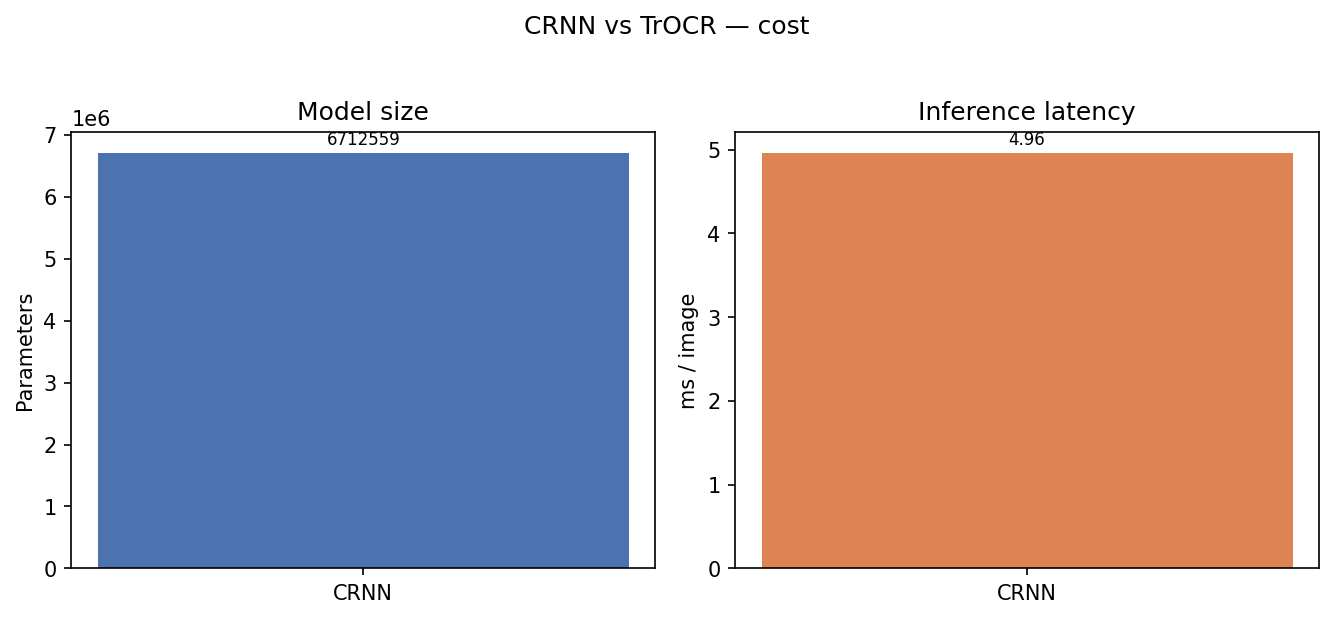
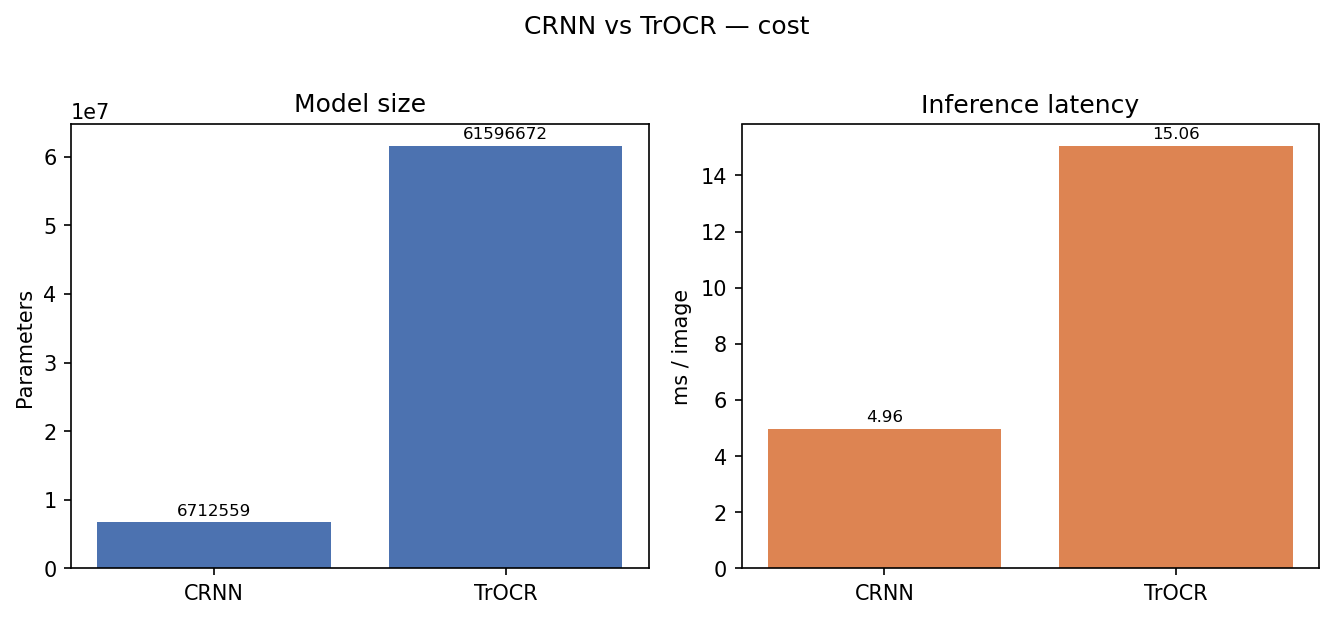
ml: add TrOCR comparison run results (fast config: trocr-small, 15k subset, 3 epochs)
CRNN vs TrOCR on the 46-class char test split: CRNN wins across the board
(98.67% vs 72.20% accuracy, 6.7M vs 61.6M params, 4.96 vs 15.06 ms/img) -
useful thesis evidence that a lightweight CNN-RNN beats a seq2seq
transformer for single-glyph classification. Notebook already reflects the
fast-config switch used for this run.

diff --git a/logs/comparison.md b/logs/comparison.md
@@ -4,15 +4,25 @@ Devanagari handwritten character recognition, evaluated on the held-out test spl
 
 ## Metrics
 
-| Metric | CRNN |
-|---|---|
-| Accuracy | 98.67% |
-| CER | 0.0003 |
-| WER | 0.0018 |
-| Parameters | 6,712,559 |
-| Inference latency | 4.963 ms/img |
-| Test samples | 9,200 |
+| Metric | CRNN | TrOCR |
+|---|---|---|
+| Accuracy | 98.67% | 72.20% |
+| CER | 0.0003 | 0.1761 |
+| WER | 0.0018 | 0.3706 |
+| Parameters | 6,712,559 | 61,596,672 |
+| Inference latency | 4.963 ms/img | 15.061 ms/img |
+| Test samples | 9,200 | 9,200 |
 
 ## Takeaways
 
-> _TrOCR metrics not yet available._ Run `python models/trocr/evaluate.py` after fine-tuning to populate `logs/trocr_eval.json`, then re-run this script.
+- **Accuracy:** CRNN wins (0.9867 vs 0.722).
+- **CER:** CRNN wins (0.0003 vs 0.1761).
+- **WER:** CRNN wins (0.0018 vs 0.3706).
+- **Model size:** CRNN wins (6712559 vs 61596672).
+- **Inference latency:** CRNN wins (4.963 vs 15.061).
+
+## Figures
+
+![Accuracy / CER / WER](comparison_metrics.png)
+
+![Model size & latency](comparison_size.png)